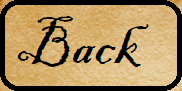
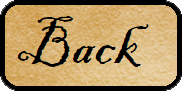
Edited some of the sprites, made transparency work, fixed rotation by 0.005 radians

diff --git a/js/main.js b/js/main.js
@@ -1,7 +1,8 @@
 var game = new Phaser.Game(1800, 1000, Phaser.AUTO, null, { preload: preload, create: create, update: update, render: render });
 var scene = "house", player, nextButton, previousButton, grandfather, constable, corpse, detective, inspector, door, background,
     dialogueBox, menuButton, menuScroll, resumeButton, startOverButton, quitButton, paused = false, booksButton, book, bookBackButton,
-    bookOut = "logbook", poisonTab, bugsTab, logbookTab, destination, moving = false, direction = "left";
+    bookOut = "logbook", poisonTab, bugsTab, logbookTab, destination, moving = false, direction = "left",
+    clueSearchKey, keyFound, keyClue;
 
 function preload() {
     this.game.load.image('house_background', 'images/house_background.png');
@@ -27,20 +28,17 @@ function preload() {
     this.game.load.spritesheet('detective', 'images/detective.png', 250, 250);
     this.game.load.spritesheet('inspector', 'images/inspector.png', 250, 250);
     this.game.load.image('corpse', 'images/body.png');
+    this.game.load.image('clueSearch_key', 'images/clueSearch_key.png');
     this.game.load.image('nextButton', 'images/nextScene.png');
     this.game.load.image('previousButton', 'images/previousScene.png');
 }
 
 function create() {
     game.world.removeAll();
-    if (scene == "house") {
-        background = game.add.image(0, 0, 'house_background');
-    } else if (scene == "crime scene") {
-        background = game.add.image(0, 0, 'crimeScene_background');
-    } else if (scene == "clue search") {
-        background = game.add.image(0, 0, 'clueSearch_background');
-    } else if (scene == "confrontation") {
-        background = game.add.image(0, 0, 'confrontation_background');
+    if (scene == "house") {background = game.add.image(0, 0, 'house_background');
+    } else if (scene == "crime scene") {background = game.add.image(0, 0, 'crimeScene_background');
+    } else if (scene == "clue search") {background = game.add.image(0, 0, 'clueSearch_background');
+    } else if (scene == "confrontation") {background = game.add.image(0, 0, 'confrontation_background');
     } //this if statement assigns the correct background image for the scene
        
     dialogueBox = game.add.image(0, 700, 'dialogueBox');
@@ -63,16 +61,21 @@ function create() {
     // this group of code create the pause menu for the game
 
     book = game.add.image(150, 75, 'book');
-    bookBackButton = game.add.button(255, 100, 'bookBackButton', closeBook, this);
+    bookBackButton = game.add.button(253, 92, 'bookBackButton', closeBook, this);
     logbookTab = game.add.button(1555, 120, 'logbookTab', openLogbook, this);
-    poisonTab = game.add.button(1575, 370, 'poisonTab', openPoison, this);
+    logbookTab.rotation = -0.05;
+    poisonTab = game.add.button(1580, 370, 'poisonTab', openPoison, this);
+    poisonTab.rotation = -0.05;
     bugsTab = game.add.button(1605, 620, 'bugsTab', openBugs, this);
+    bugsTab.rotation = -0.05;
     book.visible = false;
     bookBackButton.visible = false;
     logbookTab.visible = false;
     poisonTab.visible = false;
     bugsTab.visible = false;
     // this group of code creates the books the player has to use
+
+    clueSearchKey = game.add.button(886, 353, 'clueSearch_key', keyFind, this);
 
     nextButton = game.add.button(250, 900, 'nextButton', nextScene, this);
     previousButton = game.add.button(0, 900, 'previousButton', previousScene, this);
@@ -104,6 +107,10 @@ function create() {
     if (scene != "clue search") {
         direction = "left";
     }
+}
+
+function keyFind() {
+
 }
 
 function showMenu() {
@@ -168,7 +175,7 @@ function closeBook() {
 function openLogbook() {
     bookOut = "logbook";
     logbookTab.x = 1555;
-    poisonTab.x = 1575;
+    poisonTab.x = 1580;
     bugsTab.x = 1605;
     stopMoving();
 } // this function opens the player's logbook
@@ -176,7 +183,7 @@ function openLogbook() {
 function openPoison() {
     bookOut = "poison";
     logbookTab.x = 1585;
-    poisonTab.x = 1565;
+    poisonTab.x = 1567;
     bugsTab.x = 1605;
     stopMoving();
 } // this function opens the book on poisons
@@ -185,7 +192,7 @@ function openBugs() {
     bookOut = "bugs";
     logbookTab.x = 1585;
     poisonTab.x = 1600;
-    bugsTab.x = 1580;
+    bugsTab.x = 1581;
     stopMoving();
 } // this function opens the book on bugs
 
@@ -203,6 +210,7 @@ function nextScene() {
         create();
         stopMoving();
     }
+    paused = false;
 } // this function changes to the next scene
 
 function previousScene() {
@@ -219,6 +227,7 @@ function previousScene() {
         create();
         stopMoving();
     }
+    paused = false;
 } // this function changes to the previous scene, and will be removed later
 
 function onTap(pointer) {
